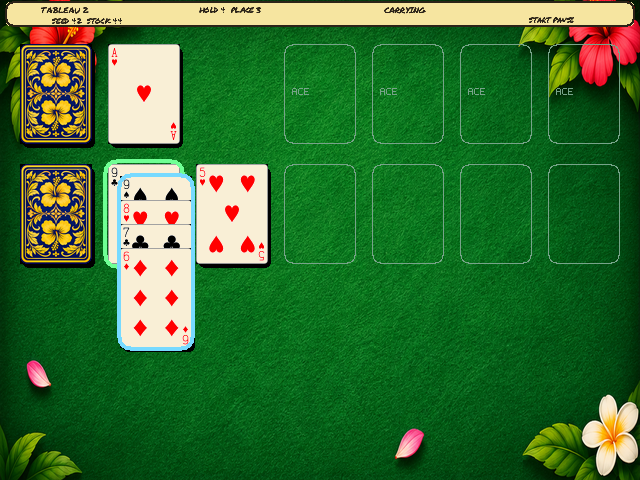
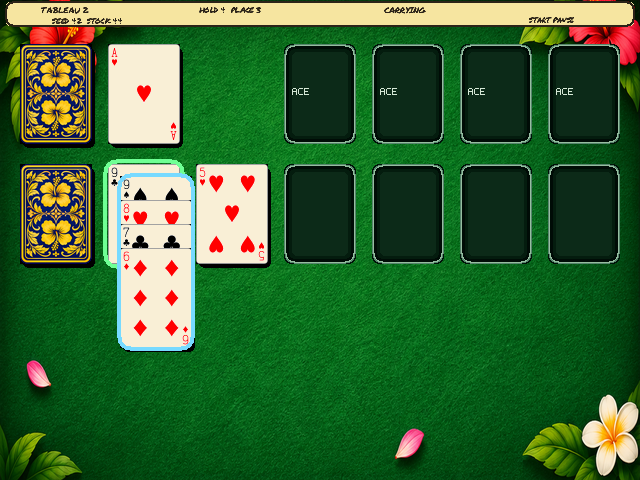
Add empty-slot shade and victory fireworks
Soft recessed pads mark empty piles. A looping deterministic fireworks
overlay plays on the win screen without changing rules or controls.

Changed region(s): [[0.4375, 0.3438, 0.9688, 0.5625], [0.4375, 0.0938, 0.9688, 0.3125]]

diff --git a/src/play_render.c b/src/play_render.c
@@ -10,8 +10,92 @@ static void shadow(SDL_Renderer *r, Rect b, int alpha) {
     render_round_fill(r,(Rect){b.x+1,b.y+2,b.w,b.h},8,(SDL_Color){0,0,0,alpha/2});
     SDL_SetRenderDrawBlendMode(r,SDL_BLENDMODE_NONE);
 }
+/* Soft recessed empty-slot treatment: layered translucent shade (cheap blur stand-in). */
+static void empty_slot(SDL_Renderer *r, Rect b, const char *label) {
+    SDL_SetRenderDrawBlendMode(r,SDL_BLENDMODE_BLEND);
+    render_round_fill(r,b,10,(SDL_Color){0,18,8,58});
+    render_round_fill(r,(Rect){b.x+2,b.y+2,b.w-4,b.h-4},9,(SDL_Color){0,12,6,72});
+    render_round_fill(r,(Rect){b.x+5,b.y+5,b.w-10,b.h-10},8,(SDL_Color){4,28,14,48});
+    render_round_fill(r,(Rect){b.x+8,b.y+8,b.w-16,b.h-16},7,(SDL_Color){12,42,24,36});
+    SDL_SetRenderDrawBlendMode(r,SDL_BLENDMODE_NONE);
+    render_round_outline(r,b,10,1,(SDL_Color){86,132,108,255});
+    render_round_outline(r,(Rect){b.x+1,b.y+1,b.w-2,b.h-2},9,1,(SDL_Color){150,190,160,255});
+    color(r,(SDL_Color){214,232,214,255});
+    if (label) render_text(r,b.x+8,b.y+44,label,1);
+}
 static void outline(SDL_Renderer *r, Rect b, int expand, SDL_Color c) {
     render_round_outline(r,(Rect){b.x-expand,b.y-expand,b.w+2*expand,b.h+2*expand},8,1,c);
+}
+static unsigned fw_hash(unsigned x) {
+    x ^= x << 13; x ^= x >> 17; x ^= x << 5; return x ? x : 0xA5A5u;
+}
+static void firework_burst(SDL_Renderer *r, int cx, int cy, unsigned seed, int age, int life) {
+    if (age < 0 || age >= life) return;
+    static const SDL_Color palette[] = {
+        {255,214,92,255},{255,92,110,255},{110,214,255,255},
+        {170,255,120,255},{255,160,70,255},{220,140,255,255},{255,255,240,255}
+    };
+    int sparks = 18 + (int)(seed % 7u);
+    for (int i = 0; i < sparks; ++i) {
+        unsigned h = fw_hash(seed + (unsigned)i * 97u);
+        int angle = (int)(h % 628u); /* ~0..2pi * 100 */
+        int speed = 18 + (int)((h >> 8) % 34u);
+        /* Approximate cos/sin with cheap quadrant folds for deterministic layout. */
+        int qx = (angle % 314) - 157; /* -157..156 */
+        int qy = 157 - ((angle + 78) % 314);
+        if (angle >= 314) { qx = -qx; qy = -qy; }
+        int x = cx + (qx * speed * age) / (157 * life);
+        int y = cy + (qy * speed * age) / (157 * life) + (age * age) / (life * 3);
+        SDL_Color c = palette[(seed + (unsigned)i) % (unsigned)(sizeof palette / sizeof palette[0])];
+        int fade = 255 - (age * 200) / life;
+        if (fade < 40) fade = 40;
+        c.a = (Uint8)fade;
+        int size = 2 + ((int)(h >> 16) & 1);
+        if (age * 3 > life * 2) size = 1;
+        SDL_SetRenderDrawBlendMode(r,SDL_BLENDMODE_BLEND);
+        render_round_fill(r,(Rect){x - size, y - size, size * 2 + 1, size * 2 + 1}, size, c);
+        if (age < life / 3)
+            render_round_fill(r,(Rect){x - 1, y - 1, 3, 3},1,(SDL_Color){255,255,255,(Uint8)(fade)});
+        SDL_SetRenderDrawBlendMode(r,SDL_BLENDMODE_NONE);
+    }
+}
+static void victory_fireworks(SDL_Renderer *r, uint64_t now) {
+    /* Looping multi-burst display; pure function of now for capture stability. */
+    const int cycle = 2400;
+    int t = (int)(now % (uint64_t)cycle);
+    const struct { int x, y; unsigned seed; int start; int life; } bursts[] = {
+        {120, 110, 0x11u, 0, 900},
+        {320, 90, 0x29u, 180, 950},
+        {520, 120, 0x3Bu, 360, 900},
+        {200, 200, 0x47u, 540, 1000},
+        {440, 180, 0x59u, 720, 1000},
+        {300, 150, 0x61u, 980, 1100},
+        {160, 250, 0x6Du, 1200, 950},
+        {480, 240, 0x73u, 1400, 950},
+        {360, 210, 0x85u, 1650, 1000},
+        {240, 130, 0x97u, 1900, 900},
+    };
+    SDL_SetRenderDrawBlendMode(r,SDL_BLENDMODE_BLEND);
+    color(r,(SDL_Color){0,0,0,55}); fill(r,(Rect){0,0,640,480});
+    SDL_SetRenderDrawBlendMode(r,SDL_BLENDMODE_NONE);
+    for (unsigned i = 0; i < sizeof bursts / sizeof bursts[0]; ++i) {
+        int age = t - bursts[i].start;
+        if (age < 0) age += cycle;
+        if (age >= bursts[i].life) continue;
+        firework_burst(r, bursts[i].x, bursts[i].y, bursts[i].seed + (unsigned)(now / (uint64_t)cycle), age, bursts[i].life);
+    }
+    /* Rising launch trails for the next burst window. */
+    for (unsigned i = 0; i < sizeof bursts / sizeof bursts[0]; ++i) {
+        int lead = bursts[i].start - 120;
+        if (lead < 0) lead += cycle;
+        int age = t - lead;
+        if (age < 0) age += cycle;
+        if (age >= 120) continue;
+        int y = 430 - (age * (430 - bursts[i].y)) / 120;
+        SDL_SetRenderDrawBlendMode(r,SDL_BLENDMODE_BLEND);
+        render_round_fill(r,(Rect){bursts[i].x - 1, y - 4, 3, 8},1,(SDL_Color){255,230,160,200});
+        SDL_SetRenderDrawBlendMode(r,SDL_BLENDMODE_NONE);
+    }
 }
 static void menu_text(SDL_Renderer *r, int center, int y, const char *label, int width, float zoom) {
     color(r,(SDL_Color){43,35,24,255});
@@ -19,15 +103,16 @@ static void menu_text(SDL_Renderer *r, int center, int y, const char *label, int
 }
 static void top_pile_visible(SDL_Renderer *r, const Pile *p, Rect b, const PlayUI *ui,
                              KlondikePile ref, BackTheme theme) {
-    outline(r,b,0,(SDL_Color){119,163,137,255});
     const CardState *top = pile_top(p);
     if (ui->held && ui->source.zone == ref.zone && ui->source.index == ref.index) {
         top = ui->source_start ? &p->cards[ui->source_start - 1] : NULL;
     }
-    if (top) { shadow(r,b,46); render_card(r,b,top,theme); }
-    else {
-        color(r,(SDL_Color){119,163,137,255});
-        render_text(r,b.x+8,b.y+44,ref.zone == K_STOCK ? "STOCK" : ref.zone == K_WASTE ? "WASTE" : "ACE",1);
+    if (top) {
+        outline(r,b,0,(SDL_Color){119,163,137,255});
+        shadow(r,b,46);
+        render_card(r,b,top,theme);
+    } else {
+        empty_slot(r,b,ref.zone == K_STOCK ? "STOCK" : ref.zone == K_WASTE ? "WASTE" : "ACE");
     }
 }
 static void menu_panel(SDL_Renderer *r, Rect b) {
@@ -142,10 +227,11 @@ void play_render(SDL_Renderer *r, const KlondikeState *s, const PlayUI *ui,
         top_pile_visible(r,&s->foundations[f],layout_slot(l,f+3,false),ui,(KlondikePile){K_FOUNDATION,f},theme);
     for (unsigned col = 0; col < 7; ++col) {
         const Pile *p = &s->tableau[col];
-        outline(r,layout_slot(l,col,true),0,(SDL_Color){119,163,137,255});
         size_t visible_count = p->count;
         if (ui->held && ui->source.zone == K_TABLEAU && ui->source.index == col)
             visible_count = ui->source_start;
+        if (!visible_count) empty_slot(r,layout_slot(l,col,true),NULL);
+        else outline(r,layout_slot(l,col,true),0,(SDL_Color){119,163,137,255});
         for (size_t i = 0; i < visible_count; ++i) {
             Rect b = play_card_rect(l,p,col,i);
             if (i + 1 == visible_count) shadow(r,b,40);
@@ -180,6 +266,7 @@ void play_render(SDL_Renderer *r, const KlondikeState *s, const PlayUI *ui,
         SDL_Color held_color = play_invalid_outline(ui,now) ? (SDL_Color){255,42,54,255} : (SDL_Color){119,218,255,255};
         render_round_outline(r,bounds,10,4,held_color);
     }
+    if (klondike_won(s) && ui->screen == MENU_PLAYING) victory_fireworks(r,now);
     /* Fixed status strip, always on top of table/carry. */
     status_bar(r,(Rect){6,2,628,l->status_h-4});
     char label[96];

diff --git a/tests/play_desktop.c b/tests/play_desktop.c
@@ -74,6 +74,16 @@ static void carry_and_flash(void) {
     KeyboardMap keys = keyboard_default();
     draw(&g.state,&ui,0); CHECK(SDL_SaveBMP(surface,"play-main-menu.bmp") == 0);
     start_play(&ui,&g,&keys);
+    draw(&g.state,&ui,50);
+    /* Empty foundation/waste pads are softly shaded rather than bare outlines. */
+    {
+        Rect ace = layout_slot(&layout,3,false);
+        Uint8 r0,g0,b0,r1,g1,b1;
+        SDL_GetRGB(pixel(ace.x+ace.w/2,ace.y+ace.h/2),surface->format,&r0,&g0,&b0);
+        SDL_GetRGB(pixel(2,200),surface->format,&r1,&g1,&b1);
+        CHECK(!(r0 == r1 && g0 == g1 && b0 == b1));
+        CHECK(g0 + 8 < g1 || r0 + 8 < r1); /* recessed shade is darker than open felt edge */
+    }
     key(&ui,&g,&keys,SDL_SCANCODE_SPACE,100); key(&ui,&g,&keys,SDL_SCANCODE_S,110);
     CHECK(ui.held && play_held_count(&ui,&g.state) == 4);
     key(&ui,&g,&keys,SDL_SCANCODE_RIGHT,120); /* 9C wants only [8H,7C,6D] */
@@ -193,6 +203,17 @@ static void winning(void) {
     CHECK(klondike_won(&g.state)); PlayUI ui; play_init(&ui,&g.state,42);
     ui.screen = MENU_PLAYING; ui.paused = false;
     draw(&g.state,&ui,0); CHECK(SDL_SaveBMP(surface,"play-win.bmp") == 0);
+    /* Empty tableau slots use soft shaded pads; fireworks paint bright sparks. */
+    Rect empty = layout_slot(&layout,0,true);
+    Uint8 er,eg,eb; SDL_GetRGB(pixel(empty.x+empty.w/2,empty.y+empty.h/2),surface->format,&er,&eg,&eb);
+    CHECK(eg > er && eg > eb); /* still green-tinted felt shade */
+    bool spark = false;
+    for (int y = 70; y < 260 && !spark; ++y)
+        for (int x = 80; x < 560; ++x) {
+            Uint8 r,g,b; SDL_GetRGB(pixel(x,y),surface->format,&r,&g,&b);
+            if (r > 200 && g > 150 && b < 160) { spark = true; break; }
+        }
+    CHECK(spark);
     KlondikeState before = g.state;
     CHECK(play_dispatch(&ui,&g,INPUT_Y,0) == PLAY_ERROR && same_state(&g.state,&before));
     play_dispatch(&ui,&g,INPUT_START,10); play_dispatch(&ui,&g,INPUT_DOWN,20);
